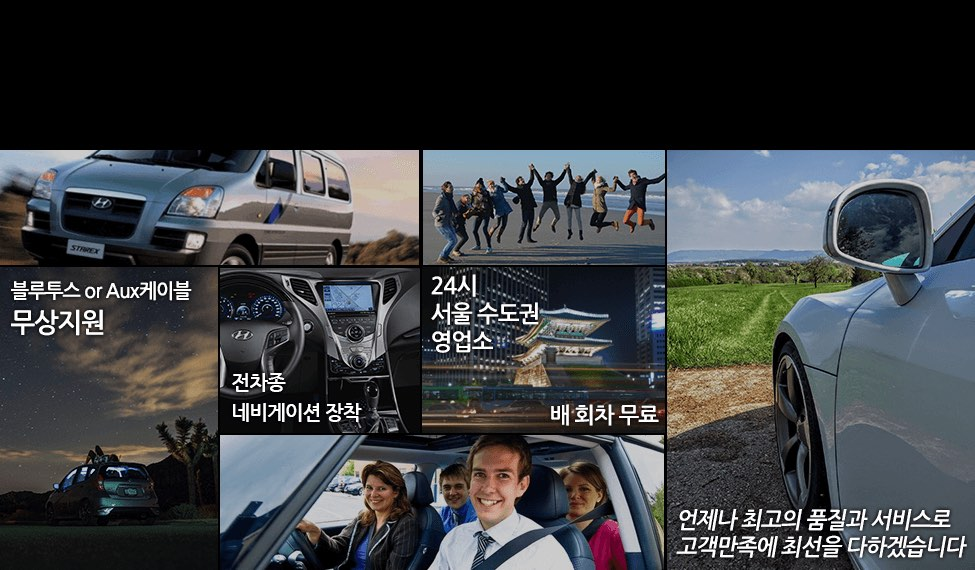
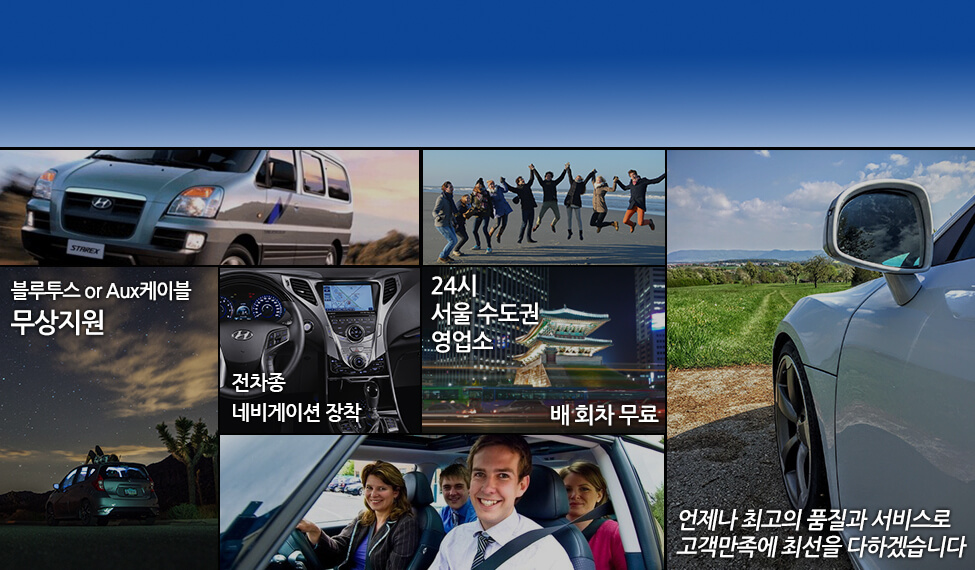
main이미지 상단 색 변경, 전화번호 변경

Changed region(s): [[0.0, 0.0, 1.0, 0.2684]]

diff --git a/index.html b/index.html
@@ -8,7 +8,6 @@
 
 
 
-
 <!DOCTYPE html>
 <html lang="ko">
 	<head>
@@ -53,7 +52,7 @@
 					<div class="row">
 						<a name="#home" id="home"></a>
 						<img src="/img/sujiin/main.jpg">
-						<a class="top-title" href="tel:010-2862-8003">
+						<a class="top-title" href="tel:010-5699-3106">
 							<img src="/img/sujiin/top_title.png">
 						</a>
 					</div>
@@ -2929,8 +2928,8 @@
         <footer class="row">
             <address class="col-md-12">
                 <p>상호 : 프라임렌터카(주) | 대표자 : 김상수 | 사업자등록번호 : 278-85-00288 | 주소 : 경기도 성남시 수정구 복정로 128</p>
-                <p>대표번호 : <a href="tel:010-2862-8003">010-2862-8003</a>
-                    | H.P <a href="010-2862-8003">010-2862-8003</a>
+                <p>대표번호 : <a href="tel:010-5699-3106">010-5699-3106</a>
+                    | H.P <a href="010-5699-3106">010-5699-3106</a>
                                         | e-mail : rentrira@gmail.com</p>
 
                 <span>성남점, 판교점, 광주점, 송파점, 강동점, 강남/서초점, 동작/관악점, 수원/화성/동탄점,</span>
@@ -2954,10 +2953,10 @@
             <li><a href="#caution" class="list-group-item"><span class="glyphicon glyphicon-alert"></span>&nbsp;&nbsp;&nbsp;주의사항</a></li>
             <li><a href="#location" class="list-group-item"><span class="glyphicon glyphicon-map-marker"></span>&nbsp;&nbsp;&nbsp;오시는길</a></li>
             <li>
-                <button href="tel:010-2862-8003" class="list-group-item">
+                <button href="tel:010-5699-3106" class="list-group-item">
                     <span class="name"><span class="glyphicon glyphicon-phone-alt"></span>&nbsp;&nbsp;&nbsp;상담 및 문의</span>
-                    <a href="tel:070-4064-8003"><div class="tel text-center">070-4064-8003</div></a>
-                                        <a href="tel:010-2862-8003"><div class="tel text-center">010-2862-8003</div></a>
+                    <a href="tel:070-4134-3106"><div class="tel text-center">070-4134-3106</div></a>
+                                        <a href="tel:010-5699-3106"><div class="tel text-center">010-5699-3106</div></a>
                 </button>
             </li>
         </ul>
@@ -2967,7 +2966,7 @@
 <nav class="navbar-fixed-top hidden-print hidden-lg">
     <div class="container">
         <div class="left rira-log">
-            <a href="tel:070-4064-8003">
+            <a href="tel:070-4134-3106">
                                 <span class="hidden-xs title">프라임렌터카</span>
             </a>
         </div>
@@ -2975,8 +2974,8 @@
         <div class="right navbar-comapny-phone">
             <span class="hidden-xs title">대표번호</span>
             <span class="glyphicon glyphicon-phone-alt"></span>
-            <a href="tel:010-2862-8003">
-                <span class="phone-number">010-2862-8003</span>
+            <a href="tel:010-5699-3106">
+                <span class="phone-number">010-5699-3106</span>
             </a>
         </div>
     </div>
